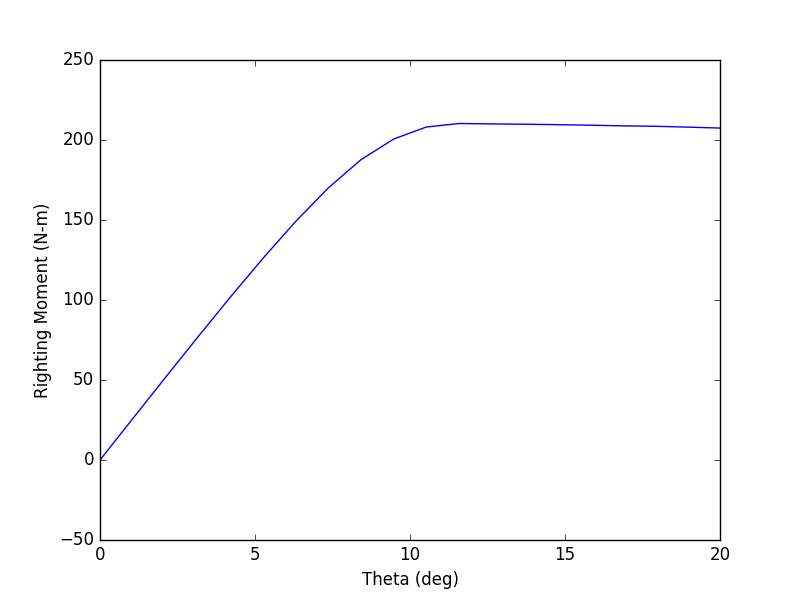
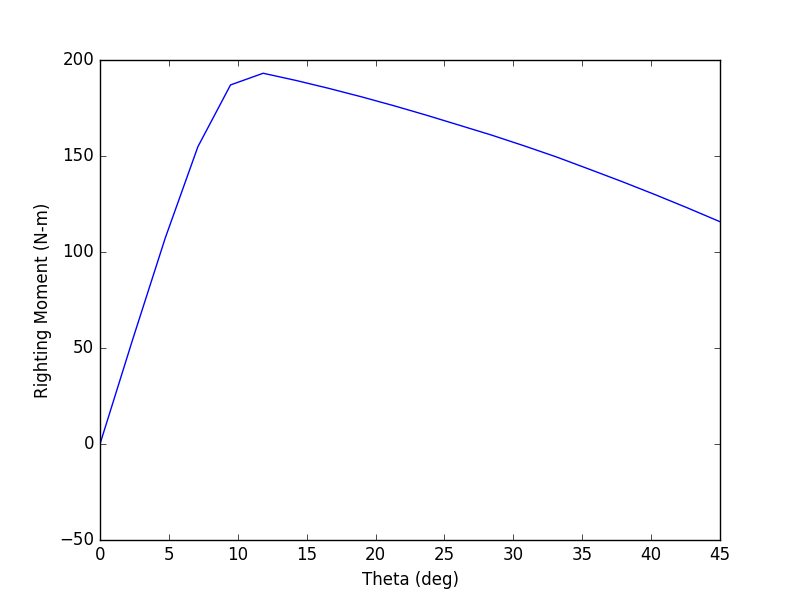
added script to process output of the stability model

diff --git a/stability/RunStabilityModel.py b/stability/RunStabilityModel.py
@@ -17,13 +17,14 @@ mesh_in = stability_model.rotate_mesh(mesh_in, point=None, axis=[1, 0, 0], angle
 
 # inputs
 rotation_point = [0.0, 0.0, np.min(mesh_in.vertices[:, 2])]
-center_of_gravity = [0.0, 0.0, np.average(mesh_in.vertices[:, 2])]
+center_of_gravity = [0.0, 0.0, 0.0] # np.average(mesh_in.vertices[:, 2])
 rotation_axis = [1.0, 0.0, 0.0]
 
 boat_mass = 46.0  # kg
-max_angle = 20.0  # deg
-num_steps = 20  # deg
+max_angle = 90.0  # deg
+num_steps = 5  # deg
 thetas = np.linspace(0.0, max_angle, num_steps)
+np.save('thetas.npy', thetas)
 
 waterline_level = 136.9  # m
 

diff --git a/stability/ProcessMomentOutput.py b/stability/ProcessMomentOutput.py
@@ -1,0 +1,21 @@
+import numpy as np
+import matplotlib.pyplot as plt
+
+# load data
+thetas = np.load('thetas.npy')
+righting_moment = np.load('moment.npy')
+gravity_moment = np.load('grav.npy')
+bouyancy_moment = np.load('bouy.npy')
+
+# conversions
+thetas_rad = np.radians(thetas)
+
+# integrate to get energy
+energy = np.empty(thetas_rad.shape)
+
+for i in range(0, len(energy)):
+    energy[i] = np.trapz(righting_moment[0:i+1], thetas_rad[0:i+1])
+
+plt.plot(thetas, righting_moment)
+plt.plot(thetas, energy)
+plt.show()
